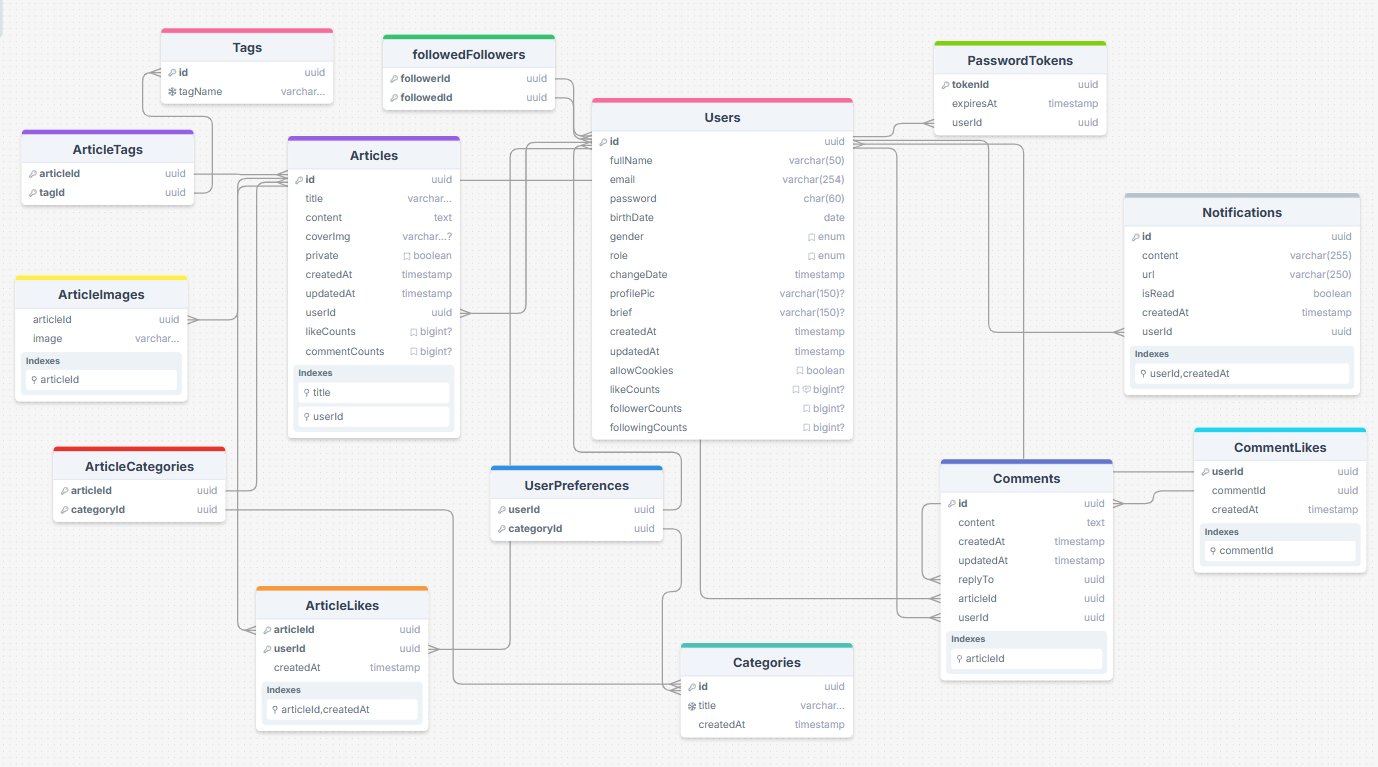
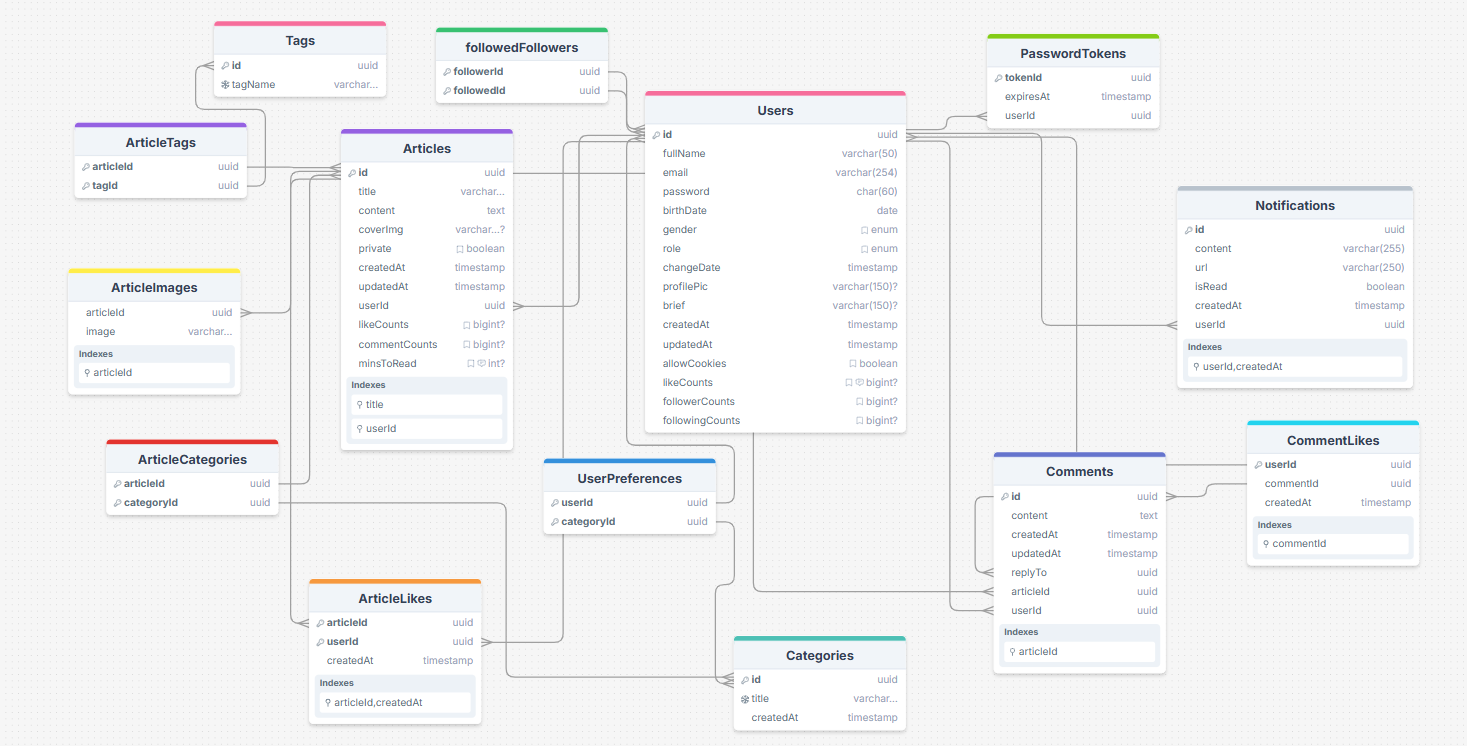
added Snow Flake id generator. updated models

diff --git a/models/article.js b/models/article.js
@@ -1,5 +1,5 @@
 const { sequelize } = require("../config/sequelize");
-const { Model, DataTypes, QueryTypes } = require("sequelize");
+const { Model, DataTypes } = require("sequelize");
 
 // Models to add relations
 const User = require("./user");
@@ -10,14 +10,15 @@ const ArticleCategory = require("./articleCategory");
 const ArticleImage = require("./articleImage");
 const Tag = require("./tag");
 const ArticleTag = require("./articleTag");
+const generateSnowFlakeId = require("../config/snowFlake");
 
 class Article extends Model {}
 
 Article.init(
     {
         id: {
-            type: DataTypes.UUID,
-            defaultValue: DataTypes.UUIDV4,
+            type: DataTypes.BIGINT,
+            defaultValue: () => generateSnowFlakeId(),
             primaryKey: true,
         },
         title: {
@@ -68,12 +69,14 @@ Article.init(
             type: DataTypes.STRING(150),
             allowNull: true,
         },
-        likeCounts: { // To reduce queries count
+        likeCounts: {
+            // To reduce queries count
             type: DataTypes.BIGINT,
             validate: {
                 min: 0,
             },
             defaultValue: 0,
+            allowNull: false,
         },
         commentCounts: {
             type: DataTypes.BIGINT,
@@ -81,6 +84,16 @@ Article.init(
                 min: 0,
             },
             defaultValue: 0,
+            allowNull: false,
+        },
+        minsToRead: {
+            // This will help in the recommendation system
+            type: DataTypes.INTEGER,
+            defaultValue: 5,
+            validate: {
+                min: 2,
+            },
+            allowNull: false,
         },
     },
     {
@@ -91,6 +104,13 @@ Article.init(
                 name: "user_id_articles_btree_index", // Getting articles for a publisher is faster now
                 fields: ["userId", "createdAt"],
                 using: "BTREE",
+            },
+            {
+                name: "like_counts_created_at_btree_index", // Getting posts for guests now is faster
+                fields: [
+                    { name: "likeCounts", order: "DESC" },
+                    { name: "createdAt", order: "DESC" },
+                ],
             },
         ],
         hooks: {

diff --git a/dbServices/articleService.js b/dbServices/articleService.js
@@ -160,26 +160,6 @@ class articleService {
                 },
                 attributes: {
                     exclude: ["titleTsVector", "userId"],
-                    include: [
-                        [
-                            // Comments count
-                            sequelize.literal(`(
-                                SELECT COUNT("articleId")
-                                FROM "Comments"
-                                WHERE "Comments"."articleId" = "Article"."id"
-                            )`),
-                            "commentCounts",
-                        ],
-                        [
-                            // Likes count
-                            sequelize.literal(`(
-                                    SELECT COUNT("articleId")
-                                    FROM "ArticleLikes"
-                                    WHERE "ArticleLikes"."articleId" = "Article"."id"
-                                )`),
-                            "likeCounts",
-                        ],
-                    ],
                 },
                 include: [
                     {
@@ -238,22 +218,6 @@ class articleService {
                     "createdAt",
                     "coverImg",
                     "language",
-                    [
-                        sequelize.literal(`(
-                                SELECT COUNT("articleId")
-                                FROM "ArticleLikes"
-                                WHERE "articleId" = "Article"."id"
-                            )`),
-                        "likesCount",
-                    ],
-                    [
-                        sequelize.literal(`(
-                                SELECT COUNT("articleId")
-                                FROM "Comments"
-                                WHERE "articleId" = "Article"."id"
-                            )`),
-                        "commentsCount",
-                    ],
                 ],
                 include: {
                     // Get some info about the publisher

diff --git a/models/followedFollower.js b/models/followedFollower.js
@@ -11,7 +11,7 @@ FollowedFollower.init(
                 model: "Users",
                 key: "id",
             },
-            onDelete: "CASCADE"
+            onDelete: "CASCADE",
         },
         followedId: {
             type: DataTypes.UUID,
@@ -19,12 +19,28 @@ FollowedFollower.init(
                 model: "Users",
                 key: "id",
             },
-            onDelete: "CASCADE"
+            onDelete: "CASCADE",
         },
     },
     {
         sequelize,
-        timestamps: false, // No need to updatedAt nor createdAt
+        updatedAt: false, // No need to updatedAt
+        createdAt: true,
+        indexes: [
+            {
+                // This will help in recommendation system (get the following for current user)
+                // And the sorted by createdAt to get a portion of followings
+                // but get rid of OFFSET and depend on natural order by the following time
+                // this also provide more content-management like user can prefere more followings
+                // over other (yeah more storage than natural order of sorted id for primary keys but let's get over with)
+                fields: [
+                    { name: "followerId" },
+                    { name: "createdAt", order: "DESC" },
+                ], 
+                name: "follower_id_follower_following_btree_index",
+                using: "BTREE",
+            },
+        ],
     }
 );
 

diff --git a/config/snowFlake.js b/config/snowFlake.js
@@ -1,0 +1,30 @@
+// Note if the application got bigger and bigger you can define
+// another config file per table comments and artilces for example
+// that will not make the app faster because that algorithm can generate
+// up to 4096 ID at the same millisecond but if the application got high traffic
+// we could reuse the same IDs for article and comment for example
+
+const FlakeId = require("flake-idgen");
+
+// To transfer BIGINT to sequelize safely. And because FlakeId return a buffer
+function intFormat(buffer) {
+    // The buffer is 8 values each one is byte so we need to concat bytes.
+    // like (firstValue << (8*7) || secondValue << (8*6) | ...)
+    // Other solution is use the builtin hex string and add the prefix 0x to make
+    // BigInt know what is this number
+    return BigInt("0x" + buffer.toString("hex"));
+}
+
+// Setting custom epoch
+
+const customEpoch = new Date("2020-01-01T00:00:00Z").getTime();
+
+// Pss the custom epoch
+const flakeIdGen = new FlakeId({ epoch: customEpoch });
+
+// prepare the function for generate
+function generateSnowFlakeId() {
+    return intFormat(flakeIdGen.next());
+}
+
+module.exports = generateSnowFlakeId;

diff --git a/models/comment.js b/models/comment.js
@@ -1,15 +1,16 @@
 const { sequelize } = require("../config/sequelize");
 const { Model, DataTypes } = require("sequelize");
+const generateSnowFlakeId = require("../config/snowFlake");
 
 class Comment extends Model {}
 
-// Here no one from the keys are primary because the user can comment many times to the same article
+// Here userId and articleId aren't unique because the user can comment many times to the same article
 
 Comment.init(
     {
         id: {
-            type: DataTypes.UUID,
-            defaultValue: DataTypes.UUIDV4,
+            type: DataTypes.BIGINT,
+            defaultValue: () => generateSnowFlakeId(),
             primaryKey: true,
         },
         content: {
@@ -46,14 +47,6 @@ Comment.init(
     {
         sequelize,
         timestamps: true,
-        indexes: [
-            {
-                // Fast for getting comments by article Id and sorted by created at
-                name: "articleId_comment_btree_index",
-                fields: ["articleId", "createdAt"],
-                using: "BTREE",
-            },
-        ],
     }
 );
 

diff --git a/models/user.js b/models/user.js
@@ -1,5 +1,5 @@
 const { sequelize } = require("../config/sequelize");
-const { Model, DataTypes, literal, Op } = require("sequelize");
+const { Model, DataTypes } = require("sequelize");
 const OperationError = require("../util/operationError");
 const bcrypt = require("bcryptjs");
 const validatePassword = require("../util/validatePassword");
@@ -114,13 +114,15 @@ User.init(
             validate: {
                 min: 0,
             },
+            allowNull: false,
         },
-        folloingCounts: {
+        followingCounts: {
             type: DataTypes.BIGINT,
             defaultValue: 0,
             validate: {
                 min: 0,
             },
+            allowNull: false,
         },
         articleCounts: {
             type: DataTypes.BIGINT,
@@ -128,6 +130,7 @@ User.init(
             validate: {
                 min: 0,
             },
+            allowNull: false,
         },
     },
     {
